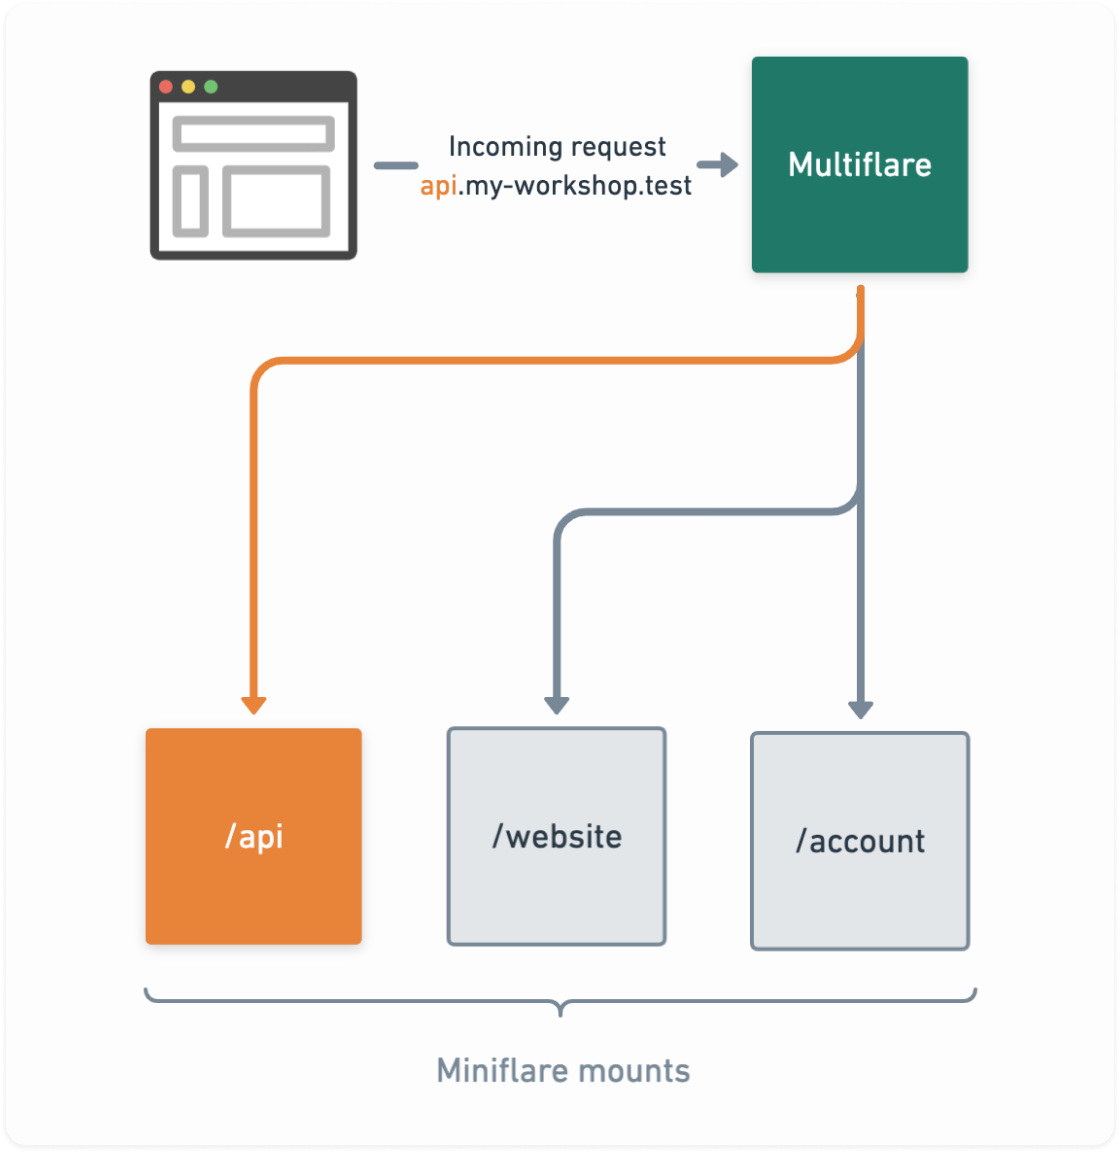
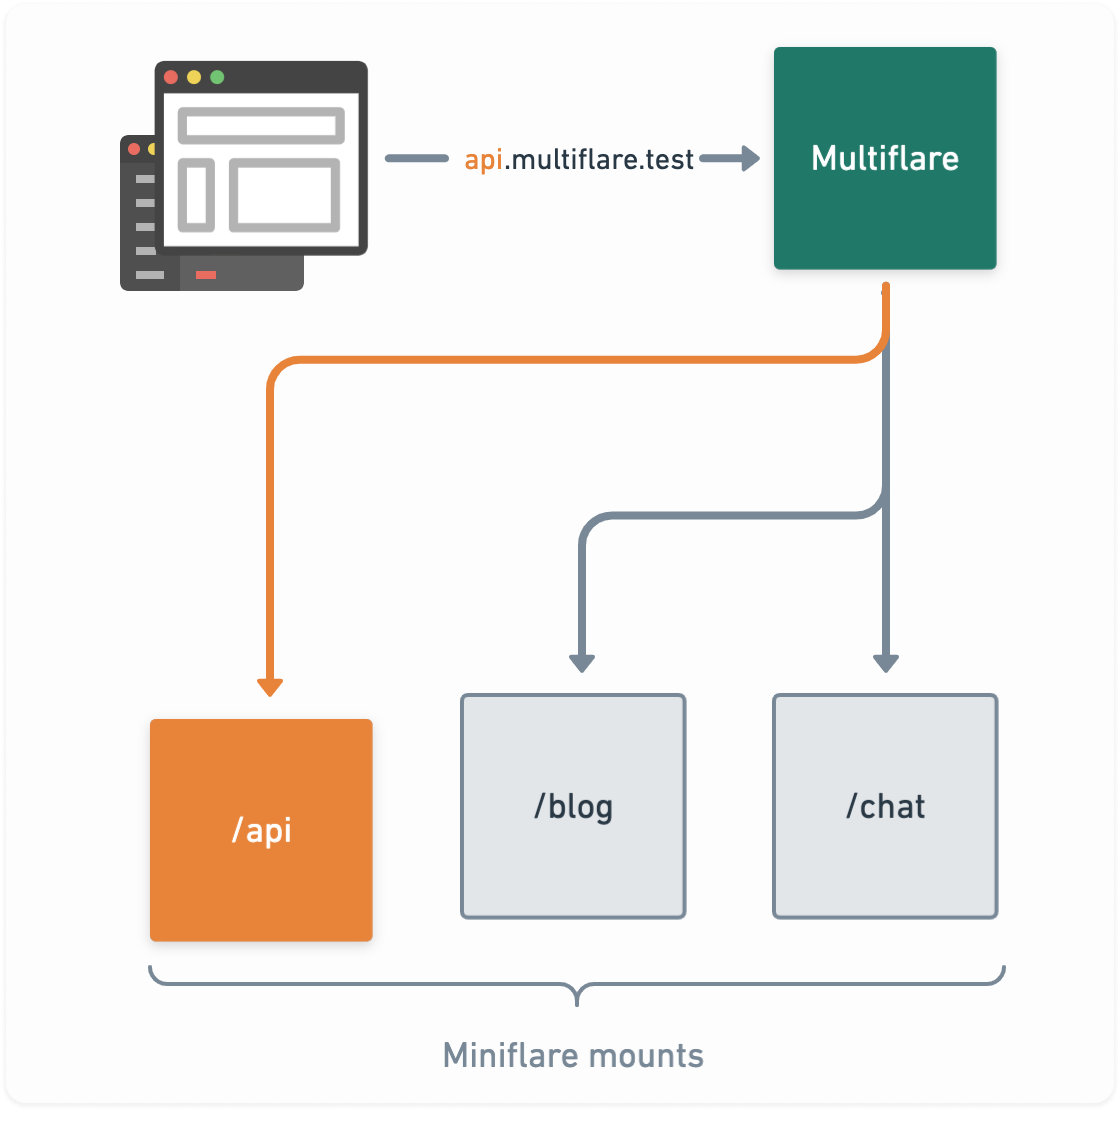
structure

Changed region(s): [[0.0938, 0.031, 0.9062, 0.9619], [0.1875, 0.7137, 0.2812, 0.7447]]

diff --git a/test/integration.test.js b/test/integration.test.js
@@ -17,11 +17,10 @@ const request = async (hostname, port = 80) =>
 
 describe('multiflare', () => {
   it('should respond', async () => {
-    await expect(request('my-workshop.test')).resolves.toBe('Website ok')
-    await expect(request('www.my-workshop.test')).resolves.toBe('Website ok')
-    await expect(request('api.my-workshop.test')).resolves.toBe('API ok')
-    await expect(request('account.my-workshop.test')).resolves.toBe(
-      'Account ok',
-    )
+    await expect(request('multiflare.test')).resolves.toBe('Page ok')
+    await expect(request('www.multiflare.test')).resolves.toBe('Page ok')
+    await expect(request('api.multiflare.test')).resolves.toBe('API ok')
+    await expect(request('blog.multiflare.test')).resolves.toBe('Blog ok')
+    await expect(request('chat.multiflare.test')).resolves.toBe('Chat ok')
   })
 })

diff --git a/example/multiflare/workers/blog/worker.js b/example/multiflare/workers/blog/worker.js
@@ -1,0 +1,3 @@
+addEventListener('fetch', (e) => {
+  e.respondWith(new Response('Blog ok'))
+})

diff --git a/example/multiflare/workers/chat/worker.js b/example/multiflare/workers/chat/worker.js
@@ -1,0 +1,3 @@
+addEventListener('fetch', (e) => {
+  e.respondWith(new Response('Chat ok'))
+})

diff --git a/example/multiflare/workers/www/worker.js b/example/multiflare/workers/www/worker.js
@@ -1,0 +1,3 @@
+addEventListener('fetch', (e) => {
+  e.respondWith(new Response('Page ok'))
+})

diff --git a/README.md b/README.md
@@ -1,20 +1,46 @@
 # multiflare
 
-Run multiple simulated [Cloudflare Workers](https://workers.cloudflare.com/) in your project with `multiflare` utilizing [the amazing `miniflare`](https://v2.miniflare.dev/) and its [`mount` option](https://v2.miniflare.dev/mount.html#mounting-workers) 🚀 
+Run multiple simulated [Cloudflare Workers](https://workers.cloudflare.com/) in your project with `multiflare` utilizing [the amazing `miniflare`](https://v2.miniflare.dev/) and its [`mount` option](https://v2.miniflare.dev/mount.html#mounting-workers) 🚀
 
 This is useful if you have a lot of workers to orchestrate; maybe even in a monorepo. The workers can have their individual configuration in their own `wrangler.toml`.
 
 ## 🤔 Motivation
 
-Having to deal with multiple workers can be difficult, especially if you want to simulate near-production environment regarding domains.
+Developing with multiple workers can be difficult, especially if you want to simulate near-production environment. Multiflare proxies requests from subdomains to a local worker. 
 
-Multiflare makes this possible with some basic setup required though.
+Imagine having an actual production project looking like this:
+
+- `www.multiflare.io` ➜ Static landing page
+- `blog.multiflare.io` ➜ GraphQL powered blog
+- `chat.multiflare.io` ➜ Live chat worker with durable object
+- `api.multiflare.io` ➜ Some other endpoints
+
+
+In _development_ you will feel as in production, but with your own data:
+
+- `www.multiflare.test` ➜ Static landing page
+- `blog.multiflare.test` ➜ GraphQL powered blog
+- `chat.multiflare.test` ➜ Live chat worker with durable object
+- `api.multiflare.test` ➜ Some other endpoints
 
 <p align="center">
 <img src="./multiflare.png" alt="" width="650">
 </p>
 
-All code examples in this readme are based off [the example in this repository](https://github.com/dan-lee/multiflare/tree/main/example/my-workshop/workers) 
+
+All these workers can share KV, Durable Objects, cache etc.
+
+Essentially everything [`miniflare` offers](https://v2.miniflare.dev/) can be used by `multiflare`:
+
+> Miniflare is a simulator for developing and testing Cloudflare Workers.
+>
+> - 🎉 Fun: develop workers easily with detailed logging, file watching and pretty error pages supporting source maps.
+> - 🔋 Full-featured: supports most Workers features, including KV, Durable 
+>Objects, WebSockets, modules and more.
+> 
+> - ⚡ Fully-local: test and develop Workers without an internet connection. Reload code on change quickly.
+
+All code examples in this readme are based on [the example in this repository](https://github.com/dan-lee/multiflare/tree/main/example/multiflare/workers).
 
 ## 📥 Installation
 
@@ -25,7 +51,7 @@ yarn add multiflare --dev
 
 # or
 
-npm i --save-dev multiflare
+npm install --save-dev multiflare
 ```
 
 ## 🧑🔧 Usage
@@ -33,13 +59,12 @@ npm i --save-dev multiflare
 Running `multiflare` is easy:
 
 ```sh
-yarn multiflare ./example/my-workshop/workers
+yarn multiflare ./example/multiflare/workers
 
 # or with ES modules
 
-NODE_OPTIONS=--experimental-vm-modules yarn multiflare ./example/my-workshop/workers
+NODE_OPTIONS=--experimental-vm-modules yarn multiflare ./example/multiflare/workers
 ```
-
 
 It requires some setup though:
 
@@ -48,7 +73,7 @@ It requires some setup though:
 Put all your workers as subdirectory in a common directory with their respective `wrangler.toml` files. Like so:
 
 ```
-my-workshop/
+multiflare/
 └── workers
     ├── api
     │   ├── wrangler.toml
@@ -65,7 +90,7 @@ my-workshop/
 
 To simulate production environment it's useful to have a similar domain locally.
 
-For example if your production domain is `my-workshop.io` you can easily add `my-workshop.test` domain to your local machine just to have a similar environment.
+For example if your production domain is `multiflare.io` you can easily add `multiflare.test` domain to your local machine just to have a similar environment.
 
 ### Simple setup for pre-defined subdomains
 
@@ -73,9 +98,10 @@ Open and modify `/etc/hosts`:
 
 ```sh
 # Append to file
-127.0.0.1 my-workshop.test www.my-workshop.test
-127.0.0.1 api.my-workshop.test
-127.0.0.1 account.my-workshop.test
+127.0.0.1 multiflare.test www.multiflare.test
+127.0.0.1 api.multiflare.test
+127.0.0.1 blog.multiflare.test
+127.0.0.1 chat.multiflare.test
 ```
 
 <details>
@@ -100,50 +126,47 @@ nameserver 127.0.0.1
 4. Add file `/etc/resolver/test` with this line `nameserver 127.0.0.1`
 </details>
 
-
-
 ### Configure `wrangler.toml` of the workers
 
 Put your domain(s) into the `[env.dev]` section, so `multiflare` is able to pick it up.
 
 `…/api/wrangler.toml`:
+
 ```toml
 name = "api"
 
 # 👇 This is key
 [env.dev]
-route = "api.my-workshop.test/*"
+route = "api.multiflare.test/*"
 
 [env.production]
-route = "api.my-workshop.io/*"
+route = "api.multiflare.io/*"
 ```
 
 `…/website/wrangler.toml`:
-
 
 ```toml
 name = "website"
 
 # 👇 This is key
 [env.dev]
-routes = ["my-workshop.test/*", "www.my-workshop.test/*"]
+routes = ["multiflare.test/*", "www.multiflare.test/*"]
 
 [env.production]
-routes = ["my-workshop.io/*", "www.my-workshop.io/*"]
+routes = ["multiflare.io/*", "www.multiflare.io/*"]
 ```
 
-**Now you should be ready to run `multiflare`! 👌** 
+**Now you should be ready to run `multiflare`! 👌**
 
 ```sh
-yarn miniflare ./examples/my-workshop/workers
+yarn multiflare ./examples/project/workers
 
 # or with ES modules
 
-NODE_OPTIONS=--experimental-vm-modules yarn multiflare ./example/my-workshop/workers
+NODE_OPTIONS=--experimental-vm-modules yarn multiflare ./examples/project/workers
 ```
 
 Phew! That was a lot to take in. If you have any questions or something is not clear, please feel free to open an issue.
-
 
 ## CLI
 
@@ -159,6 +182,7 @@ Options:
   -l, --log-level <level>  Log level: none, error, warn, info, debug, verbose (default: "info")
   -h, --help               display help for command
 ```
+
 ## API
 
 ```

diff --git a/example/multiflare/workers/README.md b/example/multiflare/workers/README.md
@@ -1,0 +1,1 @@
+Here are the workers orchestrated by `multiflare`.
